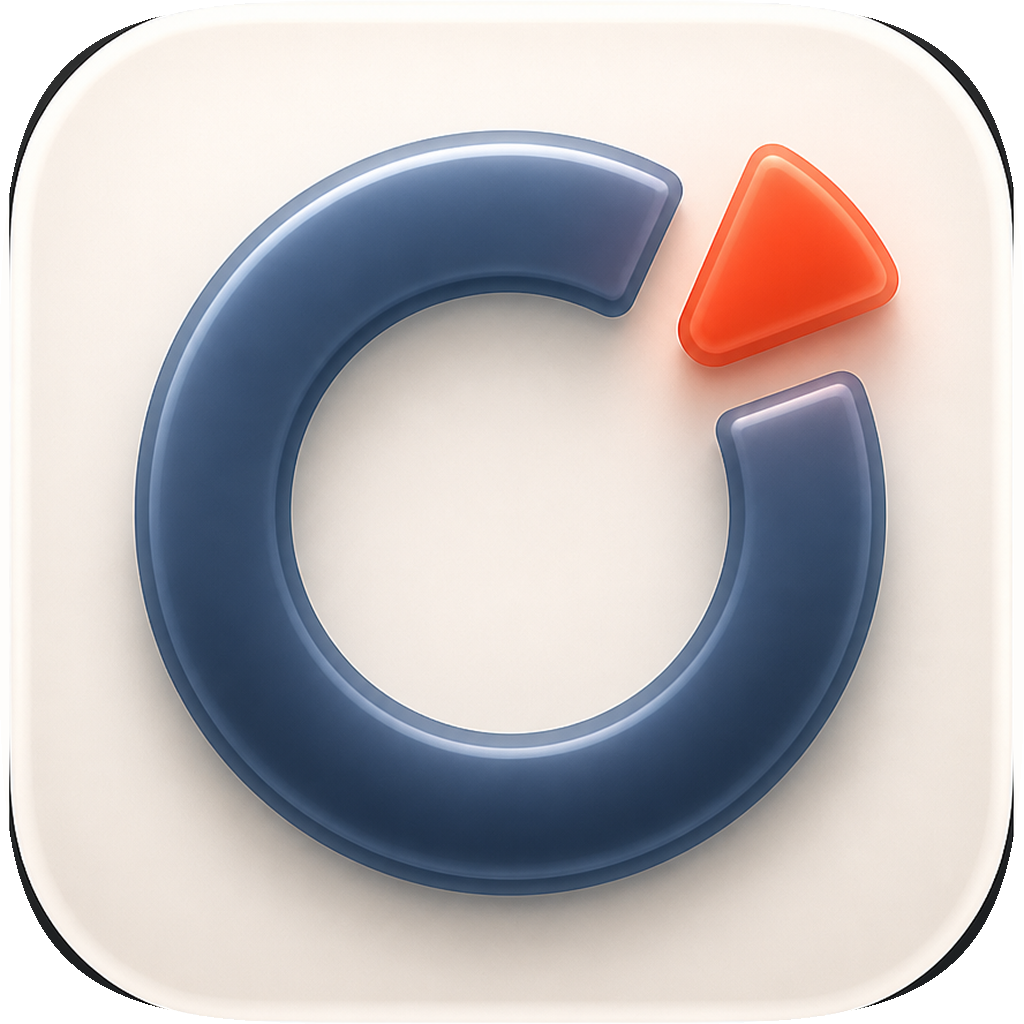
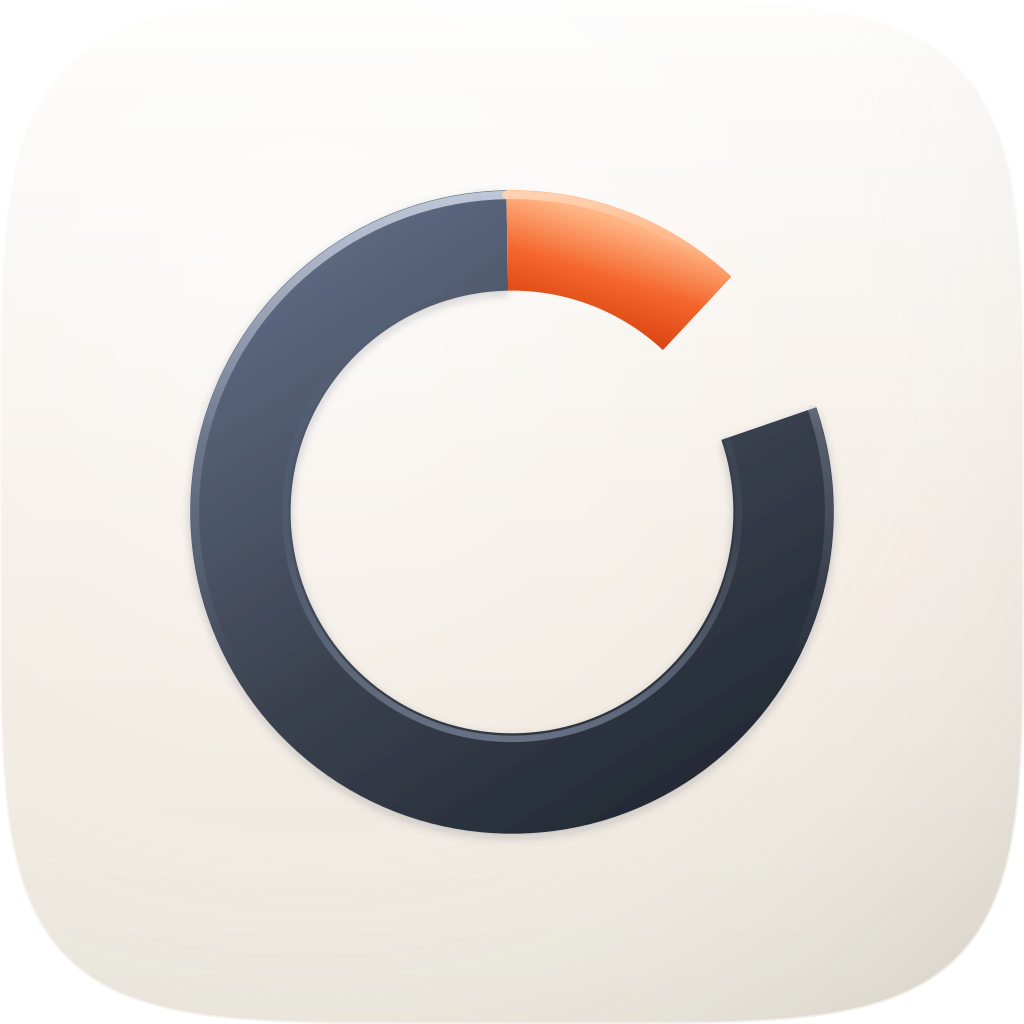
mac-doctor: move the ember inline; ship the vector
You asked why the ember floated outside the ring instead of sitting in it, and
testing the alternative settled it. Detached says "a piece came out". Inline
says what the tool actually reports: dark for used, ember for just reclaimed,
and the remaining hole for free. Three quantities in one mark, in the
conventional gauge idiom, so it reads without being learned.

The detached placement was not a mistake so much as an unexamined inheritance
from the concept brief, which said "detaching outward". It survived four rounds
of adjustment without anyone asking whether the premise was right.

Mechanics: butt caps so the segment abuts the ring the way the ring abuts
itself, and an edge catch rather than a drop shadow, since an inline element
that casts a float shadow reads as sitting on the track instead of in it.
Proportions swept: 34 degrees is too slight for the focal accent the brief
reserves the warm colour for, 52 crowds the free gap; 44 in a 72 degree hole
leaves 28 reading clearly as empty.

This reverses the previous commit's shipping decision. The raster kept the
material lead and lost on composition: its ember is a solid triangle baked
outside the ring, so it cannot express the inline read, and pixels cannot be
edited into it. It stays as the material reference and the target for any
future fidelity round, which would need regenerating with the inline
composition rather than converging on the current one.

diff --git a/plugins/mac-doctor/assets/audit.html b/plugins/mac-doctor/assets/audit.html
@@ -39,38 +39,36 @@
   <tr><th scope="col">Take</th><th scope="col">Renders at 128 / 32 / 16 css px (2&times; retina sources), plus the 16px squint magnified</th><th scope="col">Rubric</th><th scope="col">Verdict</th></tr>
 
   <tr>
-    <td class="take">A · icon.svg<small>hand-authored layered SVG, built by build_icon.py — vector alternate</small></td>
+    <td class="take ship">A · icon.svg<small>hand-authored layered SVG, built by build_icon.py — SHIPS</small></td>
     <td class="renders">
       <figure><img src="audit-renders/A-256.png" width="128" height="128" alt="Take A rendered at 128 pixels"><figcaption>128</figcaption></figure>
       <figure><img src="audit-renders/A-64.png" width="32" height="32" alt="Take A rendered at 32 pixels"><figcaption>32</figcaption></figure>
       <figure><img src="audit-renders/A-32.png" width="16" height="16" alt="Take A rendered at 16 pixels"><figcaption>16</figcaption></figure>
       <figure><img class="zoom" src="audit-renders/A-32.png" width="96" height="96" alt="Take A 16 pixel render magnified six times"><figcaption>16 &times;6</figcaption></figure>
     </td>
-    <td class="score">11 / 12</td>
-    <td class="verdict">Passes all four non-negotiables and remains the maintainable artifact: geometry and material are named constants
- in build_icon.py, so a change is a parameter edit. Ground sampled from the family's own icons rather than Apple's
- cooler porcelain. Kept as the vector alternate because it is what survives a palette change or a variant requirement,
- and because C cannot be edited at all. It lost on material, which is the one thing the brief asked to improve. Worth
- recording that the defect reported three times against this take was never its wedge placement: measured on the
- render, the hole spanned -80 to -31 degrees and the ember -80 to -30, identical. The fault was a visible track making
- the gap read as a filled segment; removing it fixed the read. Two rounds were spent moving the wrong element.</td>
+    <td class="score ship">11 / 12</td>
+    <td class="verdict">Ships. Passes all four non-negotiables, and after a late composition change it now carries the subject better
+ than any other take. The ember was originally a wedge detached outside the ring, meaning "a piece came out". Inline it
+ says what the tool actually reports: three quantities at once, dark for used, ember for just reclaimed, and the
+ remaining hole for free. That is also the conventional gauge idiom, so it reads without being learned. The segment
+ abuts the ring with butt caps and carries only its own edge catch, since an inline element that casts a float shadow
+ reads as sitting on top rather than in the track. Geometry and material are named constants in build_icon.py, so it
+ stays editable and can be made variant-aware. Loses one point on 11: a ring gauge is legible but conventional.</td>
   </tr>
   <tr>
-    <td class="take ship">C · icon-engineC-clean.png<small>GPT Image 2, corpus-referenced raster, deframed and remasked — SHIPS</small></td>
+    <td class="take">C · icon-engineC-clean.png<small>GPT Image 2, corpus-referenced raster, deframed and remasked — material reference</small></td>
     <td class="renders">
       <figure><img src="audit-renders/C-256.png" width="128" height="128" alt="Take C rendered at 128 pixels"><figcaption>128</figcaption></figure>
       <figure><img src="audit-renders/C-64.png" width="32" height="32" alt="Take C rendered at 32 pixels"><figcaption>32</figcaption></figure>
       <figure><img src="audit-renders/C-32.png" width="16" height="16" alt="Take C rendered at 16 pixels"><figcaption>16</figcaption></figure>
       <figure><img class="zoom" src="audit-renders/C-32.png" width="96" height="96" alt="Take C 16 pixel render magnified six times"><figcaption>16 &times;6</figcaption></figure>
     </td>
-    <td class="score ship">10 / 12</td>
-    <td class="verdict">Wins the material read outright, and once deframed it wins outright. The original failed check 1 by baking its
- own dark rounded-square frame inside the tile; that frame cropped away cleanly (inner tile at x 78-948, y 66-953,
- aspect 0.981), and the content was squared, scaled full bleed and remasked with the family superellipse. What remains
- is genuine gel: volumetric body, strong rim, authored translucency, richer than anything the vector master reached.
- Silhouette and 16px both hold. Loses two points. Check 10, variant robustness: a baked raster cannot adapt to Dark,
- Clear or Tinted at all, where the vector could. And it is not editable, so a future palette change means regenerating
- rather than changing a constant. Both are real costs of shipping pixels, accepted deliberately.</td>
+    <td class="score">10 / 12</td>
+    <td class="verdict">Kept as the material reference, not shipped. Its gel is still the richest here: volumetric body, strong rim,
+ authored translucency. Its disqualifying frame did turn out to be croppable (inner tile x 78-948, y 66-953, aspect
+ 0.981), and for a while it shipped on that basis. It lost the place on composition rather than material: its ember is
+ a solid triangle baked outside the ring, so it cannot express the inline three-part read, and being pixels it cannot
+ be changed to. Also fails check 10 outright, since a baked raster cannot adapt to Dark, Clear or Tinted.</td>
   </tr>
   <tr>
     <td class="take fail">B · icon-engineB-arrow.svg<small>Arrow 1.1 vector take</small></td>
@@ -86,15 +84,14 @@
 
 </table></div>
 
-<div class="rec"><strong>Recommendation: ship C (icon-engineC-clean.png).</strong> The raster wins the material
- judgment decisively and its only disqualifying fault, a baked dark frame, turned out to be croppable rather than
- inherent. Deframed and remasked with the family superellipse it passes checks 1 to 4 on real renders, and this is a
- decorative marketplace mark rather than an Icon Composer package, so nothing downstream needs the layers.
- Known liabilities to revisit: a baked raster fails check 10 outright, since it cannot adapt to Dark, Clear or Tinted,
- and it cannot be edited, so any palette or geometry change means a fresh generation rather than a constant. The vector
- master A is kept alongside for exactly that reason and remains the fallback if the mark ever needs to be variant-aware.
- The crop also cost a little of the original framing, so C sits marginally tighter in the tile than an
- authored-to-the-squircle take would.</div>
+<div class="rec"><strong>Recommendation: ship A (icon.svg).</strong> The raster won the material judgment and held
+ the shipping slot for a while once its baked frame proved croppable, but composition decided it: only the authored
+ vector could move the ember inline, and inline is what makes the mark state used, reclaimed and free at once instead
+ of only "a piece came out". Editability is the second reason, and the one that matters over time.
+ Known liabilities to revisit: the master is still less volumetric than C at 1024, and closing that means a bounded
+ fidelity run against a raster regenerated with the inline composition rather than the current one. Check 10, variant
+ robustness, remains untested; nothing has been rendered against Dark, Clear or Tinted, and a warm porcelain ground is
+ exactly the kind that collapses under Tinted. The ring gauge is conventional, which is the lost rubric point.</div>
 
 <div class="rubric">Rubric: the 12-point icon audit from icon-directions.md (mask discipline, grid, silhouette, 16px identity, single light model, palette discipline, figure-ground, depth coherence, focal sizing, variant robustness, texture restraint, era fit) — checks 1–4 non-negotiable, delivery bar ≥10/12. Raster takes audited on their squircle-masked 1024 versions. Render commands: `rsvg-convert -w {1024,256,64,32}` for SVGs, `sips -Z` for rasters.</div>
 </body>

diff --git a/plugins/mac-doctor/assets/build_icon.py b/plugins/mac-doctor/assets/build_icon.py
@@ -44,19 +44,17 @@ GAP_MID = -55.0         # bisector of the gap, degrees, 0 = +x, y down
 # Half-width of the gap. 35 made a 70 degree hole, which is 19% of the ring
 # empty; the machine this was built for was at 6% free. 25 is both truer and
 # more legible, because a smaller hole lets the freed wedge match its width.
-GAP_HALF = 25.0
-# Half-width of the freed wedge, and its lift along the bisector. These two
-# trade against each other and were swept rather than guessed, because both
-# failure modes look reasonable in isolation:
-#   wide and near (24.4 / 62)  -> the wedge covers the gap, so the ring stops
-#                                 reading as nearly full, which is the message
-#   narrow and far (16 / 104)  -> the wedge stops belonging to the gap and
-#                                 reads as an unrelated mark floating nearby
-# 19 / 88 keeps the pale track visible either side of the wedge while leaving
-# clear daylight between them. Note the round caps add (W/2)/R radians at each
-# end, 21.2 degrees in total, so the authored 38 degrees reads as about 59.
-WEDGE_HALF = 24.0
-WEDGE_LIFT = 118
+GAP_HALF = 36.0
+# The reclaimed segment now sits INLINE in the ring rather than floating outside
+# it. Detached said "a piece came out"; inline says what the tool actually
+# reports, which is three quantities at once: dark for used, ember for just
+# reclaimed, and the remaining hole for free. It is also the conventional gauge
+# idiom, so it reads without being learned.
+#
+# The segment occupies the leading part of the hole and abuts the ring's end, so
+# it uses butt caps like the ring. Round caps would overlap the dark arc and
+# round off the join that makes the two read as one track.
+EMBER_SPAN = 44.0
 SCALE = 0.93            # composition scale, keeps the lifted wedge off the edge
 
 # ---- material ---------------------------------------------------------------
@@ -90,9 +88,8 @@ def build():
     ring_end = GAP_MID - GAP_HALF + 360      # ...all the way round
     ring_d = arc(ring_start, ring_end - 360, 1, 1)
 
-    wedge_d = arc(GAP_MID - WEDGE_HALF, GAP_MID + WEDGE_HALF, 0, 1)
-    lx = WEDGE_LIFT * math.cos(math.radians(GAP_MID))
-    ly = WEDGE_LIFT * math.sin(math.radians(GAP_MID))
+    hole_start = GAP_MID - GAP_HALF          # where the dark ring stops
+    wedge_d = arc(hole_start, hole_start + EMBER_SPAN, 0, 1)
 
     return f'''<svg xmlns="http://www.w3.org/2000/svg" viewBox="0 0 {S} {S}" width="{S}" height="{S}">
 <defs>
@@ -138,9 +135,10 @@ def build():
     <stop offset="0.5"  stop-color="{EMBER_MID}"/>
     <stop offset="1"    stop-color="{EMBER_HI}"/>
   </linearGradient>
-  <linearGradient id="emberRim" x1="0" y1="0" x2="0" y2="1">
-    <stop offset="0"   stop-color="{EMBER_RIM}" stop-opacity="0.9"/>
-    <stop offset="0.45" stop-color="{EMBER_RIM}" stop-opacity="0"/>
+  <linearGradient id="emberEdge" x1="0" y1="0" x2="0" y2="1">
+    <stop offset="0"    stop-color="{EMBER_RIM}" stop-opacity="0.95"/>
+    <stop offset="0.45" stop-color="{EMBER_RIM}" stop-opacity="0.20"/>
+    <stop offset="0.8"  stop-color="{EMBER_RIM}" stop-opacity="0"/>
   </linearGradient>
 
   <!-- Contact shadows, tinted toward each object's own hue. -->
@@ -190,14 +188,11 @@ def build():
     <path d="{arc(ring_start, ring_end - 360, 1, 1, R - W/2 + 6)}" fill="none"
           stroke="url(#edgeInner)" stroke-width="7" stroke-linecap="round"/>
 
-    <!-- the wedge that came back -->
-    <g transform="translate({lx:.1f},{ly:.1f})" filter="url(#emberShadow)">
-      <path d="{wedge_d}" fill="none" stroke="url(#ember)"
-            stroke-width="{W}" stroke-linecap="round"/>
-      <path d="{wedge_d}" fill="none" stroke="url(#emberRim)"
-            stroke-width="{W * 0.34:.0f}" stroke-linecap="round"
-            transform="translate(0,-{W * 0.26:.0f})" opacity="0.75"/>
-    </g>
+    <!-- the reclaimed segment, inline and abutting the ring -->
+    <path d="{wedge_d}" fill="none" stroke="url(#ember)"
+          stroke-width="{W}" stroke-linecap="butt"/>
+    <path d="{arc(hole_start, hole_start + EMBER_SPAN, 0, 1, R + W/2 - 5)}" fill="none"
+          stroke="url(#emberEdge)" stroke-width="9" stroke-linecap="round"/>
   </g>
 </g>
 </svg>

diff --git a/plugins/mac-doctor/assets/icon-notes.md b/plugins/mac-doctor/assets/icon-notes.md
@@ -34,20 +34,32 @@ a local ground of `(233,234,235)`: roughly 12% darker and tinted toward the
 object's own hue, not a neutral grey. So the graphite ring casts cool
 (`#2A2F38`) and the ember wedge casts warm (`#C0430F`).
 
-## What ships, and why it is the raster
+## What ships: the vector, with the ember inline
 
-The raster ships. That reverses the skill's usual default, and it was the user's
-call after seeing the takes side by side.
+The composition changed late and it is the change that mattered most.
 
-Take C won the material judgment from the first render and was disqualified on
-one fault: it baked its own dark rounded-square frame inside the tile. That
-turned out to be croppable rather than inherent. The inner tile sits at x 78 to
-948, y 66 to 953, aspect 0.981, so it squares off cleanly; scaled full bleed and
-remasked with the family superellipse, it passes checks 1 to 4 and keeps the gel
-the vector never reached.
+Every earlier take had the ember **detached**, floating outside the ring, which
+says "a piece came out". Inline, occupying part of the hole, it says what the
+tool actually reports: three quantities at once. Dark for used, ember for just
+reclaimed, and the remaining hole for free. It is also the conventional gauge
+idiom, so it reads without being learned.
 
-`icon.svg` stays as the vector alternate, because it is the thing that survives a
-palette change or a variant requirement. A baked raster cannot.
+Mechanically the inline segment abuts the ring with **butt caps**, matching the
+ring's own, and carries only an edge catch rather than a drop shadow. An inline
+element with a float shadow reads as sitting on top of the track instead of in
+it. Round caps would overlap the dark arc and round off the join.
+
+Proportions were swept: at 34 degrees the ember is too slight to be the focal
+accent the brief reserves it for, and at 52 it crowds the free gap. 44 degrees of
+ember in a 72 degree hole leaves 28 degrees reading clearly as empty.
+
+### Why not the raster
+
+Take C won the material judgment outright and briefly shipped: its one
+disqualifying fault, a baked dark frame, turned out to be croppable (inner tile
+x 78-948, y 66-953, aspect 0.981). Composition is what lost it. Its ember is a
+solid triangle baked outside the ring, so it cannot express the inline read, and
+being pixels it cannot be changed to. It stays as the material reference.
 
 ## The wedge was never misplaced
 
@@ -74,11 +86,10 @@ extending the arc by (W/2)/R radians at each end, 21.2 degrees in total.
 
 - `build_icon.py` emits `icon.svg`; geometry and material are named constants at
   the top, so a fidelity round is a parameter edit rather than path surgery.
-- `icon-engineC-clean.png` is the shipped mark; `icon.png` (1024),
-  `icon-256.png` and `icon-128.png` are made from it.
-- `icon.svg` is the vector alternate, with `icon-engineA-vector.png` as its
-  render. It is what to reach for if the mark ever needs to be variant-aware or
-  recoloured.
+- `icon.svg` is the shipped master, emitted by `build_icon.py`; `icon.png`
+  (1024), `icon-256.png` and `icon-128.png` are rendered from it.
+- `icon-engineC-clean.png` is the deframed raster, kept as the material
+  reference and the target for any future fidelity round.
 - `icon-engineB-arrow.svg` and `icon-engineC-raster.png` are the losing takes,
   kept because an audit that hides its losers is not an audit.
   `icon-engineC-masked.png` is C with the family superellipse applied.
@@ -88,12 +99,9 @@ extending the arc by (W/2)/R radians at each end, 21.2 degrees in total.
 
 ## Known liabilities
 
-- The shipped mark is a baked raster, so it fails check 10 outright: it cannot
-  adapt to Dark, Clear or Tinted, and it cannot be edited. Any palette or
-  geometry change means generating again rather than changing a constant. This
-  was accepted knowingly in exchange for the material.
-- The crop cost a little of the original framing, so the mark sits marginally
-  tighter in the tile than something authored to the squircle would.
+- The master is still less volumetric than C at 1024. Closing that needs a
+  bounded fidelity run against a raster regenerated with the inline
+  composition, since the current C is detached and would pull the master back.
 - Check 10, variant robustness, is untested. The mark has not been rendered
   against Dark, Clear or Tinted grounds, and a warm porcelain ground is exactly
   the kind that can collapse under Tinted.
